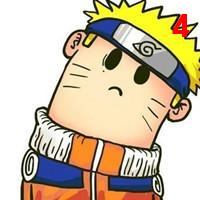
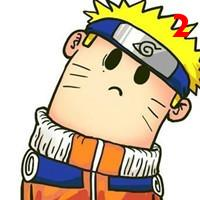
some change

Changed region(s): [[0.84, 0.06, 0.96, 0.24]]

diff --git a/no.6/get_most_important_word.py b/no.6/get_most_important_word.py
@@ -1,4 +1,4 @@
-#!/usr/bin/python
+#!/usr/bin/env python
 #encoding=utf-8
 
 import collections
@@ -8,20 +8,20 @@ import os
 #这些单词在所有文章中都会频繁出现，不能看做最重要的词
 useless_words = ('the', 'a', 'an', 'and', 'by', 'of', 'in', 'on', 'is', 'to')
 
+'''
 #所有日志所在的路径
 def get_file_list(filepath):
     filelist = os.listdir(filepath)
     return filelist
+'''
 
 def get_important_word(file):
     f = open(file)
-    line = f.readline()
     word_counter = collections.Counter()
 
-    while line:
+    for line in f:
         words = re.findall('\w+', line.lower())
         word_counter.update(words)
-        line = f.readline()
 
     f.close()
     #按次序取出出现次序最多的词，和useless_words中的单词比较，如果在use_less表中，就取次一个高频的单词
@@ -35,10 +35,10 @@ def get_important_word(file):
     
     
 if __name__ == '__main__':
-    filepath = 'diary/'
-    filelist = get_file_list(filepath)
-    for file in filelist:
-        abspath = os.path.join(filepath, file)
-        if os.path.isfile(abspath):
-            get_important_word(abspath)
+    filepath = 'diary'
+    for dirpath, dirname, dirfiles in os.walk(filepath):
+        for file in dirfiles:
+            abspath = os.path.join(dirpath, file)
+            if os.path.isfile(abspath):
+                get_important_word(abspath)
 

diff --git a/no.5/resize_img.py b/no.5/resize_img.py
@@ -16,26 +16,26 @@ def resize_image(file_name):
     w, h = img.size
     img_resize = None
 
-    if w > IPHONE5_W:
-        new_h = int(max(h * IPHONE5_W / w), 1)
+    if w > IPHONE_W:
+        new_h = int(max((h * IPHONE_W / w), 1))
         print  (IPHONE_w, new_h)
         img_resize = img.resize((IPHONE_W, new_h))
-    elif H > IPHONE5_H:
-        new_w = int(max(w * IPHONE5_H / h), 1)
-        print  (IPHONE_h, new_w)
+    elif h > IPHONE_H:
+        new_w = int(max((w * IPHONE_H / h), 1))
+        print  (IPHONE_H, new_w)
         img_resize = img.resize((IPHONE_H, new_w))
     
     if img_resize:
-        file_resize = get_resized_file_name(file_name)
-        print 'resize file %s' % file_resize
-        img_resize.save(file_resize, "JPEG")
+        file_resized_name = get_resized_file_name(file_name)
+        print 'resize file %s' % file_resized_name
+        img_resize.save(file_resized_name, "JPEG")
 
 def walk_dir(image_path):
-    for root, dirs, files in os.walk(image_path):
+    for dirpath, dirnames, files in os.walk(image_path):
         for f in files: 
             if f.lower().endswith('jpg') and not f.lower().endswith('_thumb.jpg'):
-                full_path = os.path.join(root, f)
+                full_path = os.path.join(dirpath, f)
                 resize_image(full_path)
 
 if __name__ == '__main__':
-    walk_dir("image")
+    walk_dir("images")

diff --git a/no.4/count_words.py b/no.4/count_words.py
@@ -14,12 +14,24 @@ def count_word(file_name):
         words = re.findall('\w+', line.lower())
         word_counter.update(words)
 
+    #迭代器对象只能遍历一次，欲再次遍历需要重现构建迭代器对象
+    f = open(file_name)
+    #计算单词总数 p206
+    word_sum = len([word for line in f for word in line.split()])
+
+
+    #最长行
+    f = open(file_name)
+    longest = max(len(line.split()) for line in f)
+
+    print "the longest line's length is %d" % longest
     f.close()
 
-    return word_counter
+    return word_counter, word_sum
 
 if __name__ == '__main__':
-    result = count_word('test.txt')
+    world_counter, word_sum = count_word('test.txt')
+    print 'there are %d words in this article' % word_sum
     #most_common打印出现次数最多的单词，这里most_common(3)表示出现次数最多的3个单词
-    for key,count in result.most_common(30):
+    for key,count in world_counter.most_common(3):
         print '%s: %d' % (key, count)

diff --git a/no.0/write_num_on_img.py b/no.0/write_num_on_img.py
@@ -6,16 +6,15 @@ from PIL import Image, ImageDraw, ImageFont
 def write_num_on_img(filePath, num):
     img = Image.open(filePath)
     #img.size返回一个元组(width, height)
-    size = img.size
+    width, height = img.size
     draw = ImageDraw.Draw(img)
     #colour设置数字的颜色，这里是红色
     colour = (255, 0, 0)
     ttfont = ImageFont.truetype('ahronbd.ttf', 50)
     #关键函数，参数包括，文字的位置，内容，颜色，字体
-    draw.text((size[0]-30, 0), str(num), fill=colour, font=ttfont)
+    draw.text((width-30, 0), str(num), fill=colour, font=ttfont)
     #显示一幅已载入的图像
-    img.show()
     img.save('changed.jpg')
 
 if __name__ == '__main__':
-    write_num_on_img("test.jpg", 4)
+    write_num_on_img("test.jpg", 2)

diff --git a/no.2/store_uuid_to_mongodb.py b/no.2/store_uuid_to_mongodb.py
@@ -1,4 +1,4 @@
-#usr/bin/python
+#!/usr/bin/python
 #encoding=utf-8
 
 import pymongo
@@ -10,7 +10,7 @@ db = connection.python_study
 #指定collection，不存在即创建
 collection = db.uuid
 
-for i in range(200):
+for i in xrange(200):
     #向指定的collection中插入数据
-    collection.insert({"id": i, "value": uuid.uuid4()})
+    collection.insert({"id": i, "value": str(uuid.uuid4())})
 

diff --git a/no.1/generate_activation_code.py b/no.1/generate_activation_code.py
@@ -7,7 +7,8 @@ def generate_activation_code(count):
     for i in xrange(count):
         code = str(uuid.uuid4()).replace('-','').upper()
         #uuid4的算法有一定的重复概率，所以下面作了判断
-        if not code in code_list:
+        #if not code in code_list:
+        if code not in code_list:
             code_list.append(code)
 
     return code_list

diff --git a/no.7/count_code_lines.py b/no.7/count_code_lines.py
@@ -15,7 +15,7 @@ def count_code_lines(filename):
     global comment
     f = open(filename)
     lines = f.readlines()
-    total += len(lines)
+    total += len(lines)  #行数
 
     pattern_blank = re.compile(r'^\s*$')
     pattern_comment = re.compile(r'^\s*\#+')
